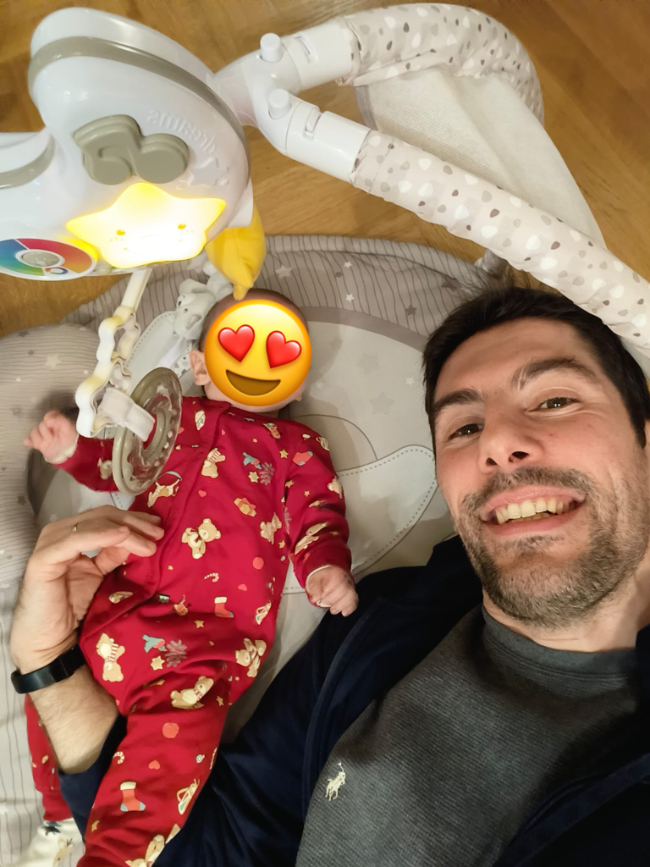
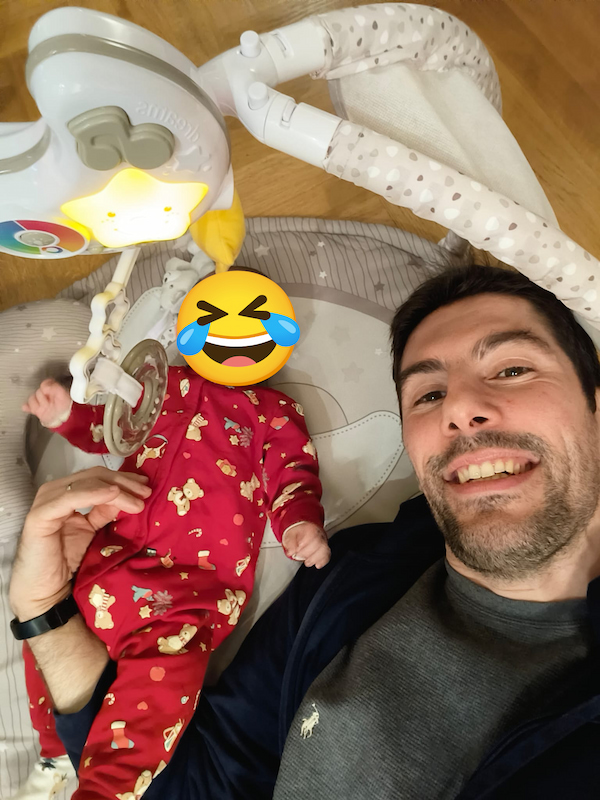
feat: completed new article

Changed region(s): [[0.27, 0.3125, 0.51, 0.5], [0.27, 0.9062, 0.3, 0.9375]]

diff --git a/src/content/posts/2025-12-28_2025-a-year-in-review/index.md b/src/content/posts/2025-12-28_2025-a-year-in-review/index.md
@@ -2,10 +2,10 @@
 title: 2025 - A year in Review
 slug: 2025-a-year-in-review
 subtitle: '2025: The year of big milestones and new beginnings'
-date: 2025-12-28T12:00:00.000Z
-updated: 2025-12-28T12:00:00.000Z
+date: 2025-12-30T10:00:00.000Z
+updated: 2025-12-30T10:00:00.000Z
 header_img: ./2025-a-year-in-review.jpg
-status: draft
+status: published
 tags:
   - life
 description: "Luciano Mammino's 2025 year in review: releasing the fourth edition of Node.js Design Patterns, progressing on Crafting Lambda Functions in Rust, approaching 5 years at FourTheorem, public speaking, AWS Bites podcast, open source contributions, and some major personal milestones."
@@ -21,7 +21,7 @@ The usual disclaimer applies: I write these posts mostly for myself. They are my
 
 P.S. If you need an incentive to power through: this year brought a _personal_ unexpected surprise that might just make it the best year ever for me. But no spoilers... you'll have to read all the way to the end to find out!
 
-## Node.js Design Patterns
+## Hitting the shelves with Node.js Design Patterns 4th edition
 
 Let's start with what has probably been one of the biggest highlights of my year: the release of the **fourth edition** of _Node.js Design Patterns_!
 
@@ -47,10 +47,12 @@ If you want to know all the details about what's new in this edition, check out 
 
 ... And if you'll have a chance to read it, make sure to leave us a review on Amazon or Goodreads. Reviews really help authors like us reach more readers! Probably the biggest gift you can give us, especially if you enjoyed the book!
 
+I'm not sure how much time I'll have for the book in 2026, but there's certainly some promotion work to do and I have a list of blog articles I want to write to complement the book's content. Stay tuned on the [Node.js Design Patterns blog](https://nodejsdesignpatterns.com/blog)!
+
 > A mind needs books as a sword needs a whetstone, if it is to keep its edge.  
 > — Tyrion Lannister
 
-## Crafting Lambda Functions in Rust
+## Making progress on Crafting Lambda Functions in Rust
 
 [Crafting Lambda Functions in Rust](https://rust-lambda.com/) is a book I am co-authoring with the brilliant [James Eastham](https://jameseastham.co.uk/). It's a hands-on guide that teaches you how to build serverless applications on AWS using Rust, from the basics all the way to production-ready patterns. This one is a **self-published** project and while it's still a work in progress, it's already available as **early access** at a discounted price. The deal is simple: you get everything that's available now for a lower price, and any future updates are free. It's a sneak peek into the content as it develops, and a way to support the project too!
 
@@ -77,7 +79,7 @@ By the way, I now have a [dedicated page for all my books](/books) on this site.
 > There is nothing to writing. All you do is sit down at a typewriter and bleed.  
 > ― Ernest Hemingway
 
-## Almost 5 years at FourTheorem
+## Approaching 5 years of growth at FourTheorem
 
 Phew, almost 5 years! In February 2026 I'll hit the five-year mark at [FourTheorem](https://fourtheorem.com/), and yet it still feels like a fresh and welcoming place every single day. Tons of exciting projects, great people to work with, and countless opportunities to grow. Every day brings a new lesson. So let me take a minute to thank [Peter](https://www.linkedin.com/in/peterelger/), [Fiona](https://www.linkedin.com/in/fiona-mc-kenna-174172a2/), and [Eoin](https://www.linkedin.com/in/eoins/), the minds, souls, and hearts behind FourTheorem, for creating such an amazing place to work at. Looking forward to many more years of collaboration and growth together!
 
@@ -100,7 +102,7 @@ P.P.S. This year we also got a **new logo**! I hope you'll get used to it and st
 > Think like a proton. Always positive.  
 > — Unknown
 
-## Sharing Cloud knowledge with AWS Bites
+## Keeping the AWS conversation going with AWS Bites
 
 [AWS Bites](https://awsbites.com/) is the show I run with [Eoin](https://www.linkedin.com/in/eoins/) (from FourTheorem) where we chat about AWS topics in short, bite-sized episodes. Well, sometimes not too bite-sized... but we try to find a good balance between comprehensiveness and brevity!
 
@@ -110,14 +112,16 @@ In 2025 we've been less consistent than previous years (busy times!), but we kep
 <iframe style="position: absolute; top:0; left: 0; width: 100%; height: 100%;" src="https://www.youtube.com/embed/Ruz_hDcyhz0" frameborder="0" allowfullscreen></iframe>
 </div>
 
-The numbers keep growing: we've almost reached **4.5k subscribers** and **160k views** on [YouTube](https://www.youtube.com/@AWSBites), plus **3.3k followers** and **75k plays** on [Spotify](https://open.spotify.com/show/3Lh7PzqBFV6yt5WsTAmO5q)!
+The numbers keep growing: we've almost reached **4.5k subscribers** and **160k views** on [YouTube](https://www.youtube.com/@AWSBites), plus **3.3k followers** and **75k plays** on [Spotify](https://open.spotify.com/show/3Lh7PzqBFV6yt5WsTAmO5q). In total, we've reached **168k plays** across all platforms (as monitored by Spotify)!
 
 As always, it's been a lot of fun to create the cover art for every episode. I expected AI would remove some of the fun, but it's actually making it easier to experiment with different styles and ideas. I still do the final touches (and sometimes even more) manually though! I hope people enjoy the cover arts as much as I enjoy making them. If you want to see all of them, you'll find them on the [official website](https://awsbites.com/).
+
+There have been lots of interesting announcements during the last re:Invent in Vegas, like Lambda Durable Functions and Lambda Managed Instances. We'll surely cover those as soon as possible! If you're interested in these topics (and AWS in general), make sure to follow us on whatever podcast channel you prefer!
 
 > There was a star riding through clouds one night, and I said to the star, "Consume me".  
 > ― Virginia Woolf
 
-## Public speaking
+## Spreading knowledge on stage (and online)
 
 This year I did a bit less public speaking than usual. Between book writing and wanting to spend more time with family (and travel less), I had to be more selective with my engagements. Still, I managed to deliver **8 different talks** throughout the year:
 
@@ -138,10 +142,12 @@ My favourite talk of the year was probably the closing keynote I delivered with 
 <iframe style="position: absolute; top:0; left: 0; width: 100%; height: 100%;" src="https://www.youtube.com/embed/xLatWq6D6g4" frameborder="0" allowfullscreen></iframe>
 </div>
 
-> Share your knowledge. It’s a way to achieve immortality.  
+After many years travelling a lot for conferences, I still have to evaluate how much travel I'm willing to do in 2026. Part of me is eager to get back in full swing into the conferences game, while the other is enjoying a more relaxed lifestyle. We'll see what the new year will bring. I don't need to take this decision in a rush. Meanwhile, if there's a cool conference you want to invite me to, make sure to reach out. I will definitely consider it!
+
+> Share your knowledge. It's a way to achieve immortality.  
 > – Dalai Lama
 
-## Sharing the full-stack love with FullStack Bulletin
+## Reaching 450 issues of FullStack Bulletin
 
 [FullStack Bulletin](https://fullstackbulletin.com/) is a free weekly newsletter I co-founded with [Andrea Mangano](https://www.yourdevopsguy.com/). Every week we hand-pick **7 curated articles** (sometimes more 😌) on full-stack web development and related topics, plus a book recommendation and an inspirational tech quote. It's our way of helping fellow developers stay current with all the good stuff happening in our industry.
 
@@ -155,10 +161,12 @@ From a growth perspective, the newsletter is still growing slowly but steadily. 
 
 We're always looking for sponsors to help cover the costs of running the newsletter and maybe make it sustainable in the long run. If you're interested, [reach out](mailto:luciano@fullstackbulletin.com)!
 
+For 2026, I'm hoping to keep the momentum going and maybe hit 500 issues. I'd also love to figure out how to grow the audience base a little faster. I think this newsletter would be much more valuable if it hit 6,000 subscribers, and it would also be much easier to attract sponsors and for me to dedicate more time to it, making it even more valuable for everyone. If you have suggestions on how to grow, I'm all ears! Another way you can help is by [subscribing to the newsletter](https://fullstackbulletin.com/) and sharing it with your friends!
+
 > Love only grows by sharing.  
 > — Brian Tracy
 
-## Live coding on Twitch
+## (Not really) live coding on Twitch
 
 One of the side projects I've kept going over the last few years has been weekly coding live streams with my friend [Roberto Gambuzzi](https://github.com/gambuzzi). We generally use these sessions as an excuse to run various experiments and learn Rust together, though occasionally we play with other technologies too (like Zig!).
 
@@ -172,7 +180,10 @@ This is mostly due to lack of time and energy on my side. Hopefully 2026 will be
 
 If you want to stay tuned for future streams, make sure to follow us on [Twitch](https://www.twitch.tv/loige) and subscribe to the [YouTube channel](https://www.youtube.com/@Loige) where we upload all the recordings!
 
-## Articles & blog posts
+> The only way to learn a new programming language is by writing programs in it.  
+> — Dennis Ritchie
+
+## Writing (just a few) articles and blog posts
 
 Not the most prolific year for blogging, I have to admit. Between working on two books and everything else going on, I didn't have much time or energy left for writing articles. Still, I managed to publish a few pieces:
 
@@ -199,7 +210,7 @@ PS: here's a screenshot from my usage of Claude Code, which I am finding particu
 > It’s harder to read code than to write it.  
 > — Joel Spolsky
 
-## Open Source
+## Contributing to Open Source
 
 I always like to do some open source whenever I have the chance. I like to contribute to projects I use (even in small ways) and I like to share almost everything I do in an open-source fashion. No surprise that I kept my commit race going in 2025... not in a crazy way, but it was great to be able to keep things going.
 
@@ -236,10 +247,12 @@ To close this section here's my ritual GitHub yearly contribution graph! I know 
 
 ![GitHub contribution chart of Luciano Mammino (lmammino) in 2025](./lmammino-github-contribution-chart-2025.jpg)
 
+For 2026, I'm hoping to keep the momentum going. I have a few ideas for new projects and I'd love to contribute more to some of the tools I use daily. Let's see what the new year will bring!
+
 > Open source is a public good and across every industry, we have a responsibility to come together to improve and support the security of open-source software we all depend on.  
 > — Jim Zemlin
 
-## Middy
+## Watching Middy thrive
 
 [Middy](https://middy.js.org/) is a Node.js middleware engine for AWS Lambda. It helps you organise your Lambda code by separating business logic from cross-cutting concerns like authentication, validation, error handling, and serialization. Think of it as a way to keep your handlers clean and focused while reusable middleware takes care of all the boilerplate.
 
@@ -251,12 +264,20 @@ Middy is still the leading framework in this space, approaching **600k weekly do
 
 [![Middy downloads chart vs competitors](./middyjs-downloads-chart-vs-competitors.jpg)](https://npmtrends.com/@codegenie/serverless-express-vs-@fastify/aws-lambda-vs-@middy/core-vs-@vendia/serverless-express-vs-aws-lambda-fastify-vs-aws-serverless-express-vs-lambda-api-vs-serverless-express-vs-serverless-http)
 
+<small>
+
+Multi-series time-series chart (Jan–Dec 2025, 0–600k) comparing package usage/download trends. **@middy/core** leads throughout, rising from ~400k to nearly **600k** by December. A second tier (**serverless-express**, **@codegenie/serverless-express**, **@vendia/serverless-express**) sits mostly in the **~300k–420k** range, with a brief dip around early October before recovering. **serverless-http** climbs from ~180k to ~300k mid/late year, while **aws-serverless-express** trends down toward ~150k. The remaining packages stay below **~100k**.
+
+</small>
+
 The project is also close to **4,000 stars** on GitHub (currently at 3,877). If you like Middy, make sure to [give it a star](https://github.com/middyjs/middy)! Even better, consider [sponsoring Will](https://github.com/sponsors/willfarrell) to support the project and keep it thriving!
+
+For 2026, I expect version 7 to be released and I'm curious to see how the community will adopt the new Durable Functions support. I might also try to get more involved again, at least to help with documentation and community support. Let's see how things unfold!
 
 > We shape our tools, and thereafter our tools shape us.  
 > — Marshall McLuhan
 
-## Other stuff
+## Some other random stuff
 
 This year (in December) I renewed my [AWS Certified Solutions Architect – Professional](https://aws.amazon.com/certification/certified-solutions-architect-professional/) certification which had expired early this April. Always good to keep these things up to date! I didn't write a detailed article about it this time because, I have to admit, I had to wing it a little bit and I think I was lucky enough to pass it at the first try! This one is always a very challenging exam: a full half day of intense brain work. If you want to know more about how I prepared for it in the past, check out my [2022 year in review](/2022-a-year-in-review) where I wrote a bit more about my approach.
 
@@ -270,7 +291,12 @@ Now a little bit of bad news: I am not an MVP anymore... or should I say I am no
 
 On the bright side, I'm still a [Codemotion Ambassador](https://www.codemotion.com/) and happy to support one of the coolest tech communities out there (and definitely the biggest/coolest tech conference in Italy)!
 
-## Some random personal stuff
+For 2026, I'm hoping to pass the AI Practitioner exam and maybe tackle one more certification. We'll see how much time I'll have for studying, but it's always fun to learn new things and keep my skills sharp!
+
+> Success is the sum of small efforts, repeated day in and day out.  
+> — Robert Collier
+
+## Some more personal achievements
 
 I kept training quite consistently this year and in June I finally got promoted to **Brown Belt in Brazilian Jiu-Jitsu**! After years of training and dedication, I finally achieved this milestone. It's been a challenging journey, but every step has been worth it. Huge thanks to my coaches and training partners for their support and guidance along the way. I honestly don't feel like I deserve it, but that's the way it's supposed to be... at least if I listen to more experienced practitioners! 🤙
 
@@ -288,7 +314,10 @@ And now onto the biggest news and gift of 2025... **I became a dad!** Yes, in Se
 
 ![A photo of Luciano Mammino smiling with his son. The face of the baby is covered with a heart eyes emoji](./luciano-mammino-and-his-son.jpg)
 
-<small>Doesn't he look just like me? 😂</small>
+<small>Isn't he cute when he smiles? 😍</small>
+
+> Life is what happens when you're busy making other plans.  
+> — John Lennon
 
 ## Wrapping up the wrap up 🌯🌯
 
@@ -299,3 +328,6 @@ I certainly wouldn't be where I am today without the support of my family, frien
 OMG, are you still reading!? I think at this point you are either my mom or a serial stalker... or maybe both! Either way, thanks for sticking around till the end. I hope you found some interesting tidbits in my 2025 review. If you did, feel free to reach out and share your thoughts or just say hi... or even better, share some highlights of your 2025! You can also leave a comment below. Seriously, I always love hearing from readers!
 
 See you in 2026! Happy New Year! 🎉
+
+> The secret to a good life is not to have what you want, but to want what you have.  
+> — Rabbi Hyman Schachtel
